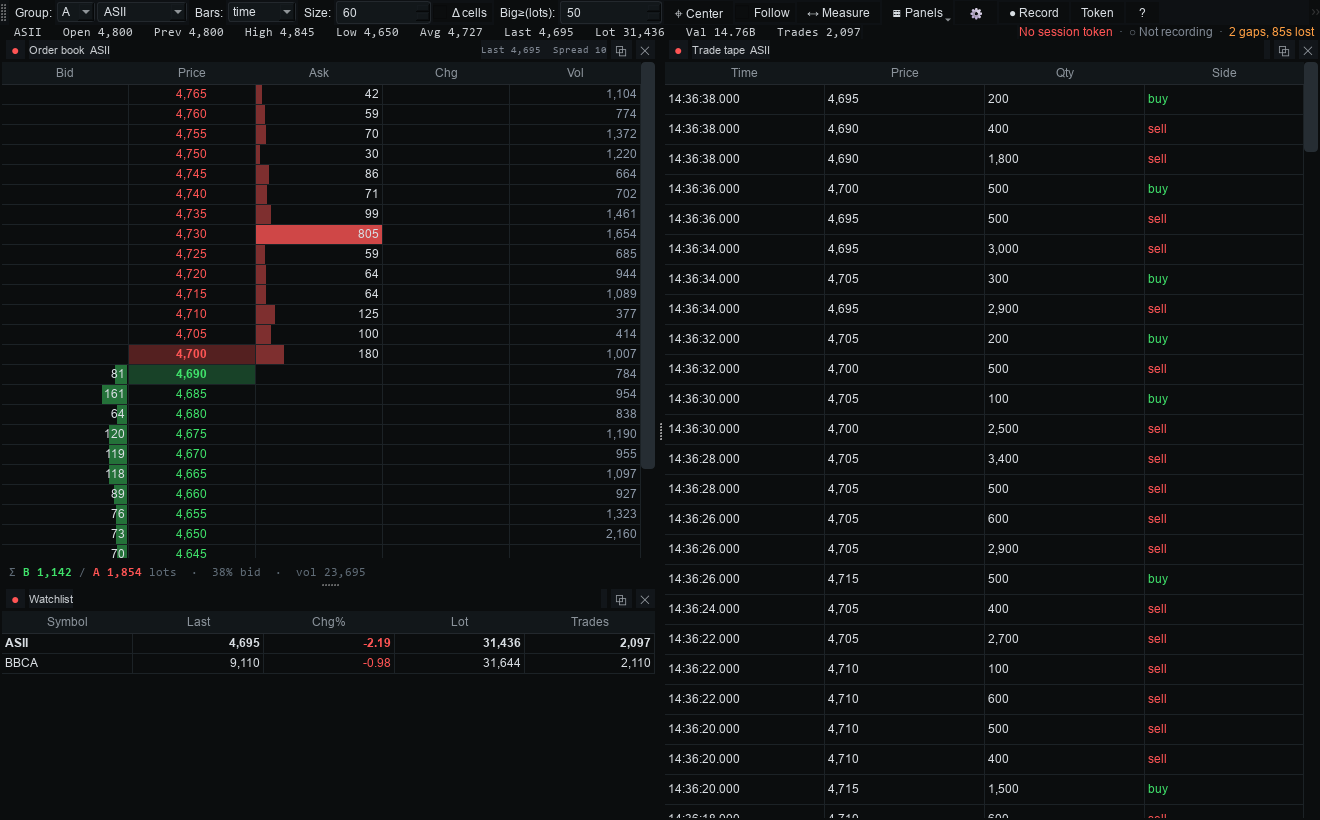
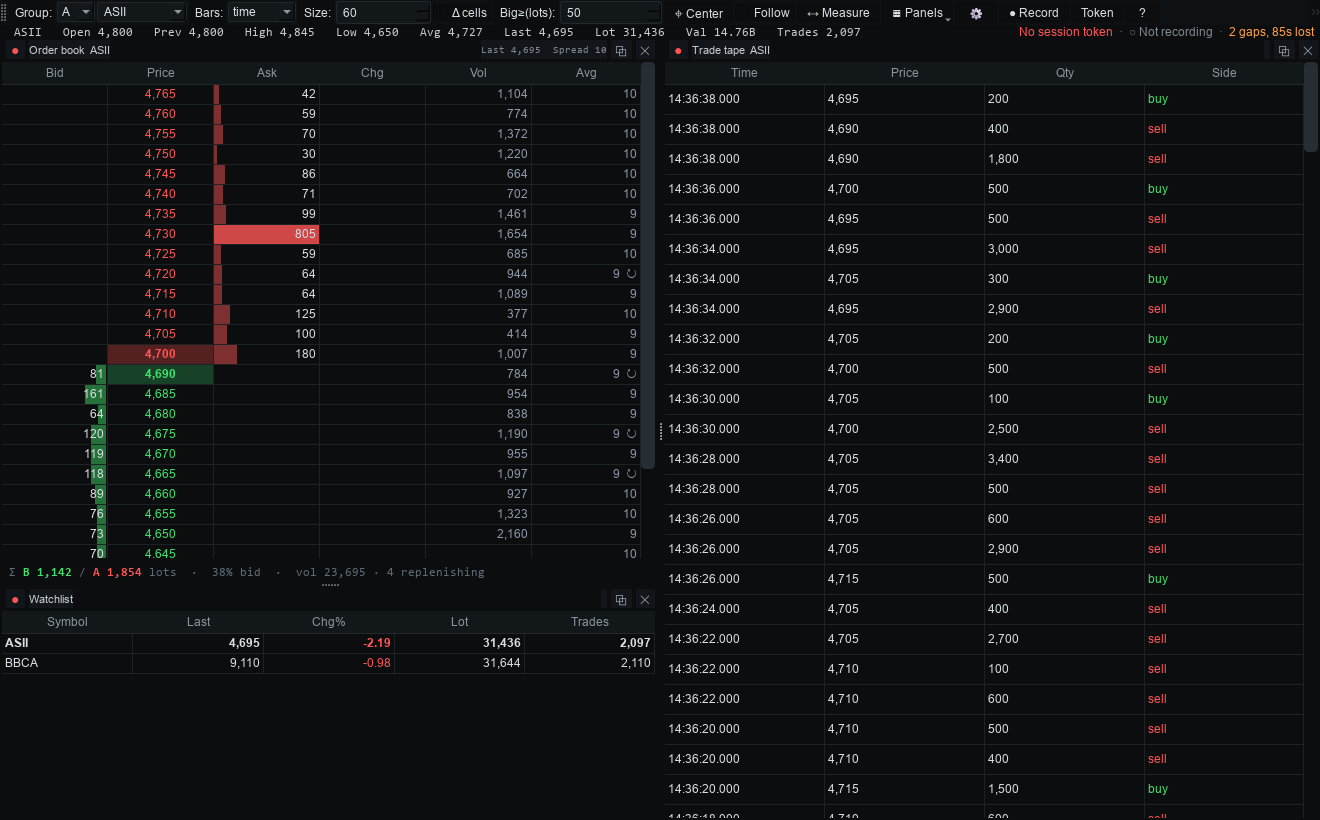
Order-size analytics: average size per level, and replenishment
Every book level arrives as price;freq;value, where freq is the number of
resting orders -- something retail feeds rarely carry and this project was
throwing away. It reached BookState.bid_freq/ask_freq and filled two columns in
the classic DOM; nothing analytical touched it.

It is worth using. On the 2026-08-31 capture, average order size (value/freq)
ranged 7 to 82 lots across ASII levels -- a 12x spread -- and reached 49,354
lots on BUMI. A level averaging 49,354 lots is one enormous order; one averaging
356 is a crowd of retail. Same displayed depth, completely different thing to
lean on, and the terminal rendered them identically.

- model.order_size_rows() exposes value/freq per level, coping with freq 0.
- The pro DOM gains an Avg column, emphasised when a level sits far above the
  ladder median -- the "one big order is here" tell.

Replenishment detection uses the rule the data pointed at. Book snapshots arrive
at a median 1.00s cadence with ~0.46 trades between them, so "did the level grow"
is the wrong test: a level hit and topped back up inside one second shows no net
change. It compares against what should have been left instead:

    expected = old_value - consumed_by_trades
    reload   = new_value - expected

freq then separates the two explanations -- order count roughly unchanged means
one order reloading, a jump means new participants arrived. Depth alone cannot
tell those apart, which is the whole reason this needs the order count.
[…]

diff --git a/orderflow/model.py b/orderflow/model.py
@@ -226,6 +226,12 @@ class OrderflowModel:
         self.heatmap = []       # [(epoch, {price: value}, mid_price), ...]
         self.trades = []        # raw trade records (for the tape)
         self.gaps = []          # recorded holes in the tape (see feed.gap_record)
+        # order-size analytics: shares traded at each price since that side's last
+        # book snapshot, and the reload evidence that falls out of comparing the
+        # two. Thresholds are applied at DISPLAY time (see reload_rows) so tuning
+        # them never needs a model rebuild.
+        self._consumed = Counter()
+        self.reloads = {}       # price -> {count, shares, consumed, freq_delta, last}
         self.summary = None     # latest session OHLC/turnover dict
         self._cvd = 0.0
         self._last_price = None
@@ -253,8 +259,44 @@ class OrderflowModel:
         elif ev[0] == "gap":
             self.gaps.append(ev[1])
 
+    def _detect_reloads(self, side, levels, ep):
+        """Compare the incoming side against the state it is about to replace.
+
+        A level that was hit and topped back up inside one snapshot shows NO net
+        change, so "did it grow?" is the wrong test. Measure against what should
+        have been left instead:
+
+            expected = old_value - consumed_by_trades
+            reload   = new_value - expected
+
+        The order count decides what a reload means: roughly unchanged implies one
+        order reloading, a jump implies new participants arriving. Without order
+        ids neither can be proven -- this is evidence, not fact."""
+        old_val = self.book.asks if side == "OFFER" else self.book.bids
+        old_frq = self.book.ask_freq if side == "OFFER" else self.book.bid_freq
+        for price, freq, value in levels:
+            consumed = self._consumed.pop(price, 0.0)
+            if consumed <= 0 or price not in old_val:
+                continue
+            expected = old_val[price] - consumed
+            refill = value - expected
+            if refill <= 0:
+                continue                      # ordinary consumption, nothing added back
+            e = self.reloads.get(price)
+            if e is None:
+                e = self.reloads[price] = {"count": 0, "shares": 0.0,
+                                           "consumed": 0.0, "freq_delta": 0,
+                                           "first": ep, "last": ep}
+            e["count"] += 1
+            e["shares"] += refill
+            e["consumed"] += consumed
+            e["freq_delta"] += freq - old_frq.get(price, freq)
+            e["last"] = ep
+
     def _on_book(self, ev):
         _, _sym, side, levels, ts = ev
+        ep_book = _parse_iso_epoch(ts) or 0.0
+        self._detect_reloads(side, levels, ep_book)   # BEFORE the state is replaced
         self.book.update(side, levels)
         self._diag["book_frames"] += 1
         bb, ba = self.book.best_bid(), self.book.best_ask()
@@ -265,7 +307,7 @@ class OrderflowModel:
                 self._diag["crossed_book"] += 1
             else:
                 self._spread_hist[ba - bb] += 1   # real (positive) spread only
-        ep = _parse_iso_epoch(ts) or 0.0
+        ep = ep_book
         if (self._heatmap_every <= 0 or self._last_heatmap_t is None
                 or ep - self._last_heatmap_t >= self._heatmap_every):
             mid = (bb + ba) / 2 if (bb is not None and ba is not None) else self._last_price
@@ -312,6 +354,7 @@ class OrderflowModel:
         vp = self.vap.setdefault(price, {"buy": 0.0, "sell": 0.0})
         vp[side] += qty
 
+        self._consumed[price] += qty      # for reload detection on the next snapshot
         self._cvd += qty if side == "buy" else -qty
         self.cvd_x.append(ep)
         self.cvd_y.append(self._cvd)
@@ -447,6 +490,62 @@ class OrderflowModel:
                 lost += hi - lo
         return (max(0.0, span - lost) / span, lost, span)
 
+    def order_size_rows(self, depth=20):
+        """[(price, side, avg_lots, freq, lots)] around the touch.
+
+        avg = value / freq: the average size of ONE resting order at that price.
+        A level holding 4,000 lots across 8 orders is a different animal from the
+        same 4,000 across 400, and depth alone cannot tell them apart."""
+        b = self.book
+        out = []
+        for price, _bf, bv, _af, av in self.ladder(depth):
+            for value, freq, side in ((bv, b.bid_freq.get(price), "bid"),
+                                      (av, b.ask_freq.get(price), "ask")):
+                if not value:
+                    continue
+                lots = value / 100.0
+                avg = (value / freq / 100.0) if freq else lots   # freq 0 -> treat as one
+                out.append((price, side, avg, freq or 0, lots))
+        return out
+
+    def reload_rows(self, min_frac=0.5, freq_tol=3, min_count=2, window_sec=300):
+        """Levels being topped back up after trades eat into them: replenished
+        (hidden) liquidity, as [(price, count, lots, per_min, last_ep)].
+
+        `min_frac`   the reload must be at least this share of what was consumed
+        `freq_tol`   average order-count increase still consistent with ONE order
+                     reloading rather than a crowd arriving
+        `min_count`  how many times before it is worth showing
+        `window_sec` only levels active this recently; 0 for the whole session
+
+        Reported as a RATE as well as a total, because a cumulative count over a
+        session is nearly tautological for a stock trading in a few ticks -- every
+        traded price gets refilled eventually. Replenishment per minute is what
+        separates a level being actively worked from one that merely existed.
+
+        Filtering happens here, not during detection, so changing the thresholds
+        never requires rebuilding the model.
+
+        HEURISTIC, not proof: the feed is level-aggregated with no order ids, so
+        one order reloading and one order leaving while a similar one arrives are
+        indistinguishable."""
+        now = max((e["last"] for e in self.reloads.values()), default=0.0)
+        out = []
+        for price, e in self.reloads.items():
+            if e["count"] < min_count or e["consumed"] <= 0:
+                continue
+            if window_sec and now - e["last"] > window_sec:
+                continue
+            if e["shares"] < min_frac * e["consumed"]:
+                continue
+            if e["freq_delta"] / max(e["count"], 1) > freq_tol:
+                continue                       # order count climbed: a crowd, not a reload
+            span_min = max((e["last"] - e["first"]) / 60.0, 1 / 60.0)
+            out.append((price, e["count"], e["shares"] / 100.0,
+                        e["count"] / span_min, e["last"]))
+        out.sort(key=lambda r: -r[3])          # busiest first
+        return out
+
     def diag(self):
         """Diagnostics snapshot for the --debug readout: raw counters plus derived
         health (buy %, spread, heatmap depth, and the footprint==VAP invariant —
@@ -467,6 +566,7 @@ class OrderflowModel:
         d["spread_p90"] = _weighted_pct(self._spread_hist, 90)
         d["spread_mode"] = (self._spread_hist.most_common(1)[0][0]
                             if self._spread_hist else None)
+        d["reloads"] = len(self.reload_rows())
         d["gaps"] = len(self.gaps)
         cov = self.coverage()
         d["coverage"] = None if cov is None else 100.0 * cov[0]

diff --git a/tests/suites/order_size.py b/tests/suites/order_size.py
@@ -1,0 +1,90 @@
+"""Order-size analytics: average size per level, and reload detection.
+
+The rule is NOT "the level got bigger". Book snapshots arrive about once a second,
+so a level hit and topped back up inside one second shows no net change at all.
+It compares against what should have been left:
+
+    expected = old_value - consumed_by_trades
+    reload   = new_value - expected
+"""
+from orderflow import model as of_model
+
+P = 190
+ISO = "2026-08-31T14:00:%02d.000000"
+
+
+def book(m, sec, freq, value, side="BID"):
+    m.on_event(("book", "BUMI", side, [(P, freq, value)], ISO % sec))
+
+
+def trade(m, sec, qty, tid):
+    m.on_event(("trade", {"symbol": "BUMI", "price": float(P), "qty": float(qty),
+                          "value": 0.0, "id": tid, "flag": 2,
+                          "sec": 1_772_000_000 + sec, "ns": 0,
+                          "recv_iso": ISO % sec, "trade_time": ISO % sec}))
+
+
+def run(seq):
+    """seq of (sec, freq, value, traded_before_next_snapshot)."""
+    m = of_model.OrderflowModel(of_model.make_bars("time", 60))
+    tid = 0
+    for sec, freq, value, traded in seq:
+        book(m, sec, freq, value)
+        if traded:
+            tid += 1
+            trade(m, sec, traded, tid)
+    return m
+
+
+# ---- 1. topped back up after being hit -> a reload ------------------------
+m = run([(0, 5, 100000, 10000), (1, 5, 100000, 0)])
+rows = m.reload_rows(min_count=1, window_sec=0)
+assert len(rows) == 1, rows
+price, count, lots, rate, _ep = rows[0]
+assert price == P and count == 1 and abs(lots - 100) < 1e-6, rows[0]
+print("PASS: hit for 10,000 sh and still full -> reload of %.0f lots" % lots)
+
+# ---- 2. ordinary consumption -> NOT a reload -----------------------------
+m = run([(0, 5, 100000, 10000), (1, 5, 90000, 0)])
+assert m.reload_rows(min_count=1, window_sec=0) == [], m.reload_rows(min_count=1, window_sec=0)
+print("PASS: level shrank by exactly what traded -> no reload")
+
+# ---- 3. order count jumped -> a crowd arriving, not one order reloading ---
+m = run([(0, 5, 100000, 10000), (1, 40, 100000, 0)])
+assert m.reload_rows(min_count=1, freq_tol=3, window_sec=0) == []
+# with the tolerance opened up it does show, proving freq is what excluded it
+assert len(m.reload_rows(min_count=1, freq_tol=100, window_sec=0)) == 1
+print("PASS: order count 5 -> 40 excluded by freq_tol, admitted when relaxed")
+
+# ---- 4. size added with no trades -> not a reload ------------------------
+m = run([(0, 5, 100000, 0), (1, 5, 150000, 0)])
+assert m.reload_rows(min_count=1, window_sec=0) == []
+print("PASS: size added with nothing consumed -> not a reload")
+
+# ---- 5. min_frac gates a partial top-up ---------------------------------
+m = run([(0, 5, 100000, 10000), (1, 5, 92000, 0)])     # only 2,000 of 10,000 back
+assert m.reload_rows(min_count=1, min_frac=0.5, window_sec=0) == []
+assert len(m.reload_rows(min_count=1, min_frac=0.1, window_sec=0)) == 1
+print("PASS: a 20%% top-up fails min_frac=0.5 and passes min_frac=0.1")
+
+# ---- 6. average order size ----------------------------------------------
+m = of_model.OrderflowModel(of_model.make_bars("time", 60))
+m.on_event(("book", "BUMI", "BID", [(190, 4, 400000)], ISO % 0))     # 4 orders, 4,000 lots
+m.on_event(("book", "BUMI", "OFFER", [(191, 400, 400000)], ISO % 0))  # 400 orders, same size
+rows = {(p, s): a for p, s, a, _f, _l in m.order_size_rows(10)}
+assert abs(rows[(190, "bid")] - 1000) < 1e-6, rows
+assert abs(rows[(191, "ask")] - 10) < 1e-6, rows
+print("PASS: same 4,000 lots -> avg 1,000 across 4 orders vs 10 across 400")
+
+# freq 0 must not divide by zero
+m.on_event(("book", "BUMI", "BID", [(189, 0, 50000)], ISO % 1))
+sizes = {(p, s): a for p, s, a, _f, _l in m.order_size_rows(10)}
+assert sizes[(189, "bid")] == 500, sizes[(189, "bid")]
+print("PASS: freq of 0 falls back to the level total instead of dividing by zero")
+
+# ---- 7. diag reports it --------------------------------------------------
+m = run([(0, 5, 100000, 10000), (1, 5, 100000, 5000), (2, 5, 100000, 0)])
+assert m.diag()["reloads"] >= 1, m.diag()["reloads"]
+print("PASS: diag() reports %d replenishing level(s)" % m.diag()["reloads"])
+
+print("\nALL PASS")

diff --git a/orderflow/panels.py b/orderflow/panels.py
@@ -893,8 +893,8 @@ class DomPanel(Panel):
         for col in range(6):
             self.dom.setItemDelegateForColumn(col, None)
         if pro:
-            self.dom.setColumnCount(5)
-            self.dom.setHorizontalHeaderLabels(["Bid", "Price", "Ask", "Chg", "Vol"])
+            self.dom.setColumnCount(6)
+            self.dom.setHorizontalHeaderLabels(["Bid", "Price", "Ask", "Chg", "Vol", "Avg"])
             self.dom.setItemDelegateForColumn(0, self._del_bid)
             self.dom.setItemDelegateForColumn(2, self._del_ask)
         else:
@@ -973,6 +973,11 @@ class DomPanel(Panel):
         maxlot = self._smooth("_dom_max", lots[-1] if lots else 1)
         wall = c["wall_mult"] * self._smooth("_dom_med", lots[len(lots) // 2] if lots else 0)
         show_bars = c["show_depth_bars"]
+        sizes = sorted(a for _p, _s, a, _f, _l in m.order_size_rows(c["dom_depth"]) if a)
+        avg_med = self._smooth("_dom_avg_med", sizes[len(sizes) // 2] if sizes else 0)
+        reloads = {r[0]: (r[1], r[2], r[3]) for r in m.reload_rows(
+            min_frac=c["reload_min_frac"], freq_tol=c["reload_freq_tol"],
+            min_count=c["reload_min_count"])} if c["show_avg_size"] else {}
 
         ctr = QtCore.Qt.AlignmentFlag.AlignCenter
         rgt = QtCore.Qt.AlignmentFlag.AlignRight | QtCore.Qt.AlignmentFlag.AlignVCenter
@@ -1021,6 +1026,28 @@ class DomPanel(Panel):
             vt.setTextAlignment(rgt)
             vt.setForeground(DIMV)
             self.dom.setItem(r, 4, vt)
+
+            # Avg: mean size of ONE resting order here. Two levels showing the same
+            # depth are different animals if one is 8 orders and the other is 400.
+            freq = (m.book.ask_freq if is_ask else m.book.bid_freq).get(price) or 0
+            lot = (av if is_ask else bv) or 0
+            avg = (lot / freq / 100) if freq else 0
+            at = QtWidgets.QTableWidgetItem(format(avg, ",.0f") if avg else "")
+            at.setTextAlignment(rgt)
+            if avg and avg_med and avg >= c["avg_size_mult"] * avg_med:
+                at.setForeground(QtGui.QColor("#e6b450"))   # few, large orders
+                at.setFont(bold)
+            else:
+                at.setForeground(DIMV)
+            rl = reloads.get(price)
+            if rl:
+                at.setText((at.text() + "  ↻").strip())
+                at.setToolTip("Replenished %d times, %s lots put back after trades took "
+                              "size out (%.1f/min).\nInferred from level totals — the "
+                              "feed carries no order ids, so this cannot be confirmed as "
+                              "one order reloading."
+                              % (rl[0], format(rl[1], ",.0f"), rl[2]))
+            self.dom.setItem(r, 5, at)
         self._dom_prev = cur
 
         tb, ta = sum(blots), sum(alots)
@@ -1033,8 +1060,9 @@ class DomPanel(Panel):
             "<span style='color:#5f6b76'> / </span>"
             "<span style='color:#ff5454;font-weight:600'>A %s</span>"
             "<span style='color:#5f6b76'> lots &nbsp;&middot;&nbsp; %.0f%% bid "
-            "&nbsp;&middot;&nbsp; vol %s</span>"
-            % (format(tb, ",.0f"), format(ta, ",.0f"), bid_pct, format(tv, ",.0f")))
+            "&nbsp;&middot;&nbsp; vol %s%s</span>"
+            % (format(tb, ",.0f"), format(ta, ",.0f"), bid_pct, format(tv, ",.0f"),
+               ("  &middot;  %d replenishing" % len(reloads)) if reloads else ""))
 
         last = m.trades[-1]["price"] if m.trades else None
         if last is not None and spread is not None:

diff --git a/orderflow/items.py b/orderflow/items.py
@@ -140,6 +140,8 @@ DEFAULTS = {
     "tape_rows": 200, "time_ms": 3,
     "vap_scale": "sqrt", "vap_mode": "session", "live_hz": 7,
     "buy_color": "#3fe26a", "sell_color": "#ff5454",
+    "show_avg_size": True, "avg_size_mult": 3.0, "reload_min_frac": 0.5,
+    "reload_freq_tol": 3, "reload_min_count": 3,
     "depth_levels": 30, "signal_rows": 300,
     "reconnect": True, "backoff_max": 30,
     "history": "today",
@@ -200,6 +202,19 @@ SETTINGS_SPEC = [
         ("bubble_opacity", "Bubble opacity", "int", (20, 255)),
     ]),
     ("DOM & Tape", [
+        ("show_avg_size", "Show average order size", "bool", None,
+         "value / order-count per level: one large order versus a crowd of small "
+         "ones at the same price. Depth alone cannot tell them apart."),
+        ("avg_size_mult", "Big-order highlight (x median)", "double", (1.0, 20.0, 0.5),
+         "Emphasise a level whose average order is this many times the ladder median."),
+        ("reload_min_frac", "Reload min share of consumed", "double", (0.1, 2.0, 0.1),
+         "A level counts as replenished when it is topped back up by at least this "
+         "share of what trades just took."),
+        ("reload_freq_tol", "Reload order-count tolerance", "int", (0, 50),
+         "How much the order count may rise and still look like ONE order reloading "
+         "rather than new participants arriving."),
+        ("reload_min_count", "Reload min occurrences", "int", (1, 100),
+         "How many times a level must replenish before it is marked."),
         ("dom_pro", "Pro mode (centered ladder)", "bool", None,
          "Centred ladder with Chg and per-level volume, versus the classic side-by-side book."),
         ("dom_resizable", "Resizable columns (drag headers)", "bool", None),

diff --git a/CHANGELOG.md b/CHANGELOG.md
@@ -12,6 +12,30 @@ capability without breaking anything. **PATCH** is fixes only.
 
 ### Added
 
+- **Order-size analytics from the book's order count.** Every level carries `freq`, the
+  number of resting orders, which the terminal previously used only to fill two columns
+  in the classic DOM. The pro DOM now has an **Avg** column showing `value / freq` — the
+  average size of one resting order — highlighted when a level is held by unusually few,
+  large orders. On the 2026-08-31 capture that ranged 7 → 82 lots across ASII levels and
+  up to 49,354 on BUMI: a level averaging 49,354 lots and one averaging 356 are utterly
+  different things the terminal used to render identically.
+- **Replenishment (hidden-liquidity) detection.** Levels topped back up after trades eat
+  into them are marked `↻`, with the count, lots put back and rate in the tooltip, and a
+  count in the Σ footer. The test is not "the level got bigger" — book snapshots arrive
+  about once a second, so a level hit and refilled within that second shows no net change
+  at all. It compares against `old_value - consumed_by_trades`, which catches exactly that
+  case. The order count then separates one order reloading from a crowd arriving.
+
+  Reported as a **rate**, not just a session total: on a stock trading in four ticks a
+  cumulative count is nearly tautological, since every traded price gets refilled
+  eventually.
+
+  **Heuristic, not proof** — and labelled as such in the UI. The feed is level-aggregated
+  with no order ids, so one order reloading is indistinguishable from one leaving while a
+  similar one arrives.
+
+### Added
+
 - **Buy/sell colours are configurable** (Settings ▸ Footprint). Two pickers; the
   imbalance fills and edge markers are *derived* from them, so the palette cannot end
   up incoherent. Applies to the footprint clusters, candles and headers, and to the

diff --git a/docs/protocol.md b/docs/protocol.md
@@ -53,6 +53,12 @@ A protobuf wrapper around a **pipe-delimited ASCII** payload:
 - Each level is `price;freq;value`:
   - `price` — price level (IDR)
   - `freq` — **number of resting orders** at that level (rarely exposed by a retail feed)
+    and genuinely useful rather than trivia. `value / freq` is the average size of one
+    resting order, which separates a single institutional order from a retail crowd at
+    the same price: measured on 2026-08-31 that ranged 7 → 82 lots across ASII levels
+    (a 12x spread) and up to 49,354 lots on BUMI. It also decides what a replenished
+    level means — order count roughly unchanged suggests one order reloading, a jump
+    means new participants arrived. See `model.order_size_rows` / `model.reload_rows`.
   - `value` — **total shares** resting. **lots = value / 100.**
 - ~60 levels per side (not the 5-level public cap).
 - Trailer holds an update id, a total, and two nanosecond ISO timestamps (event +
